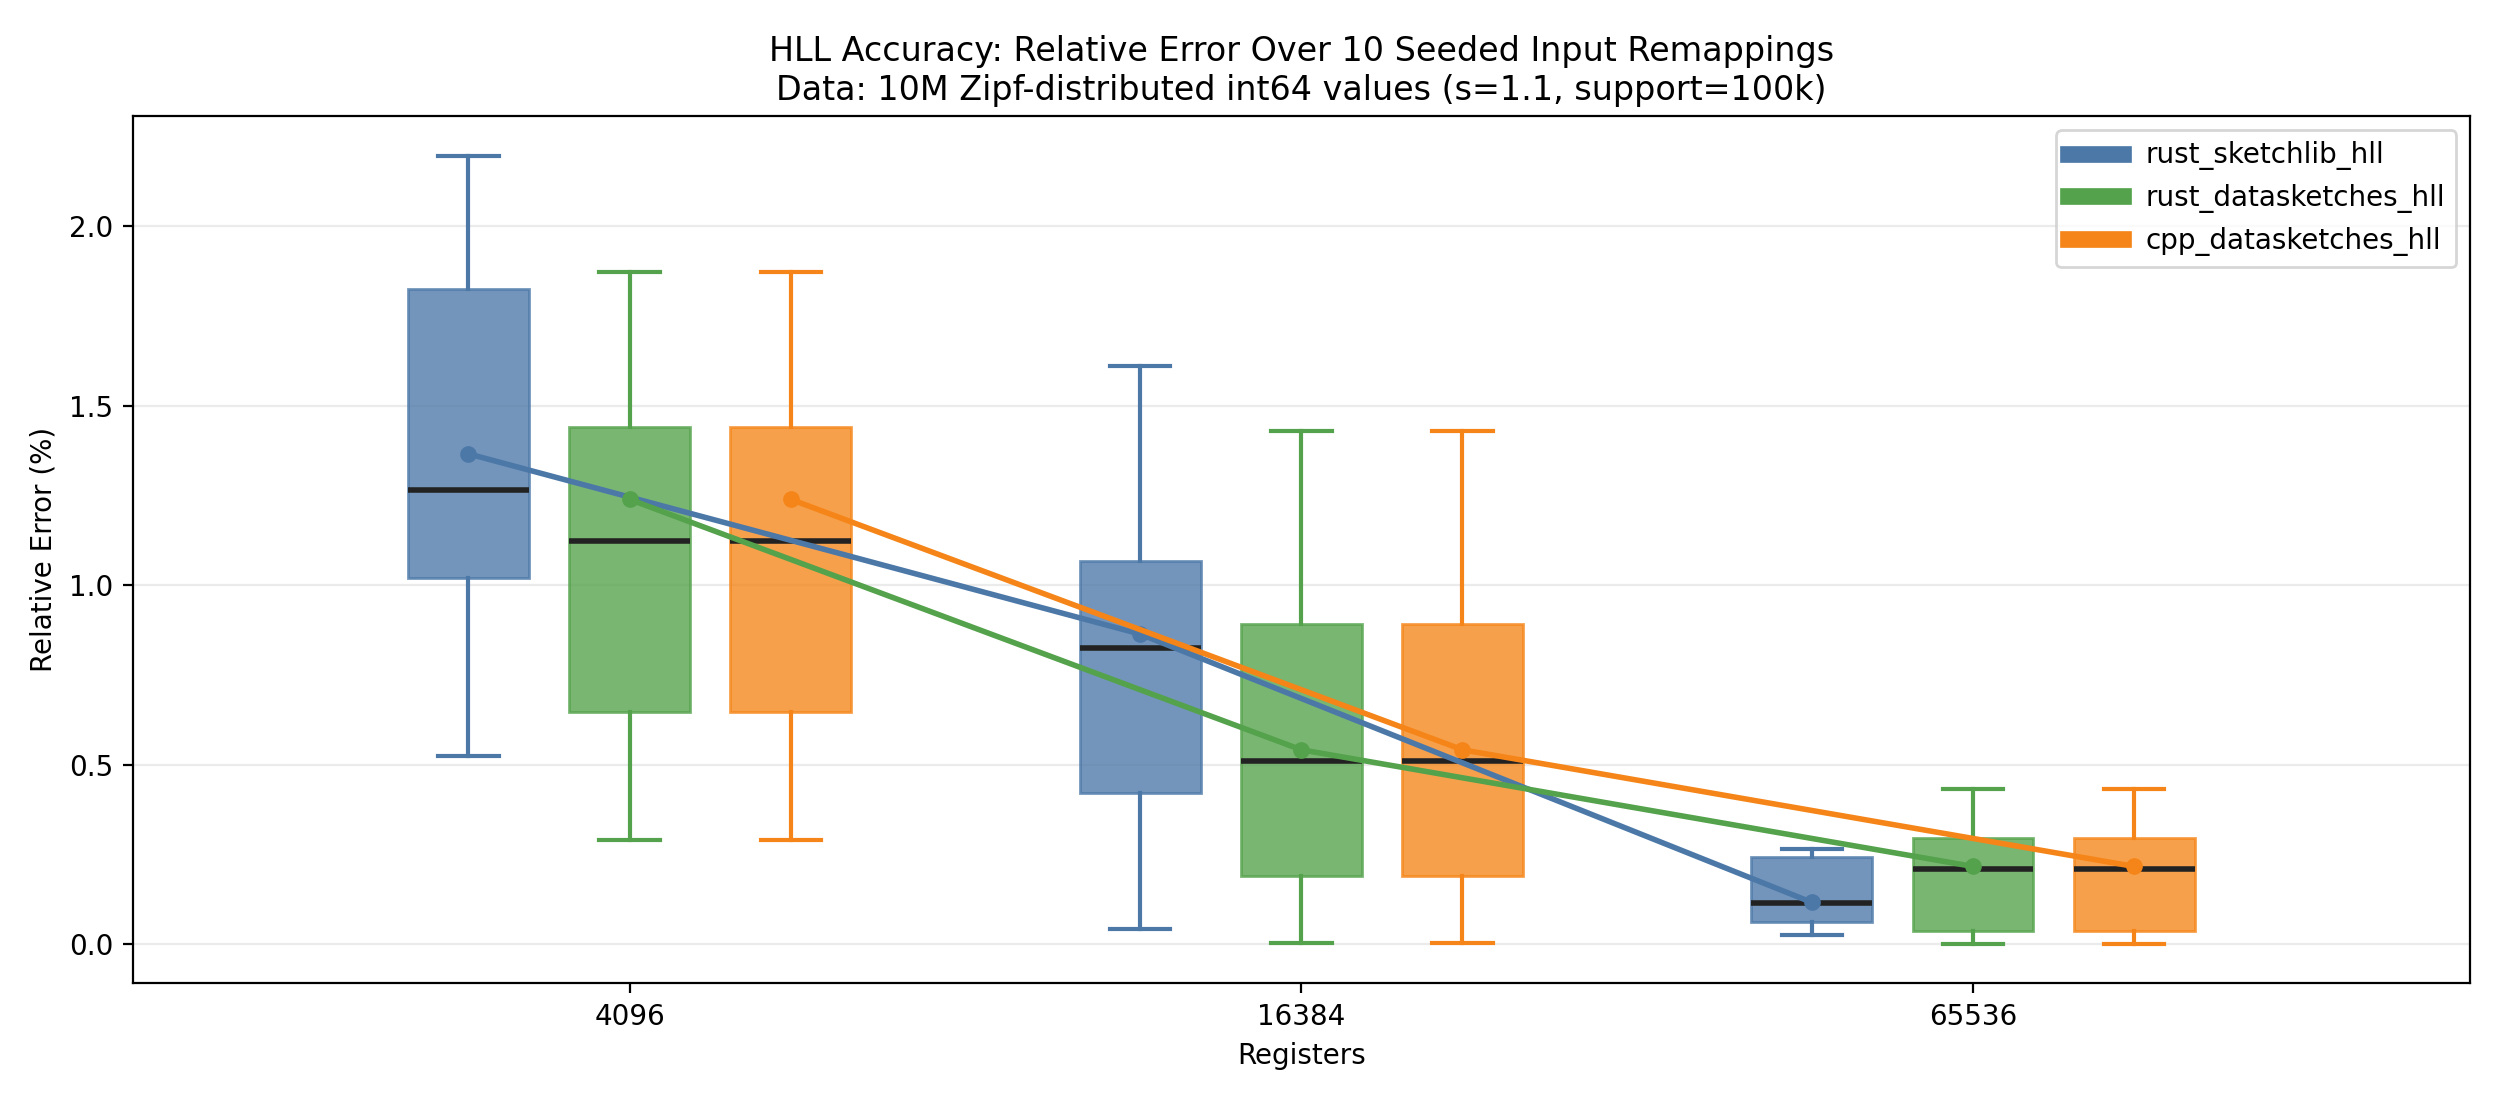
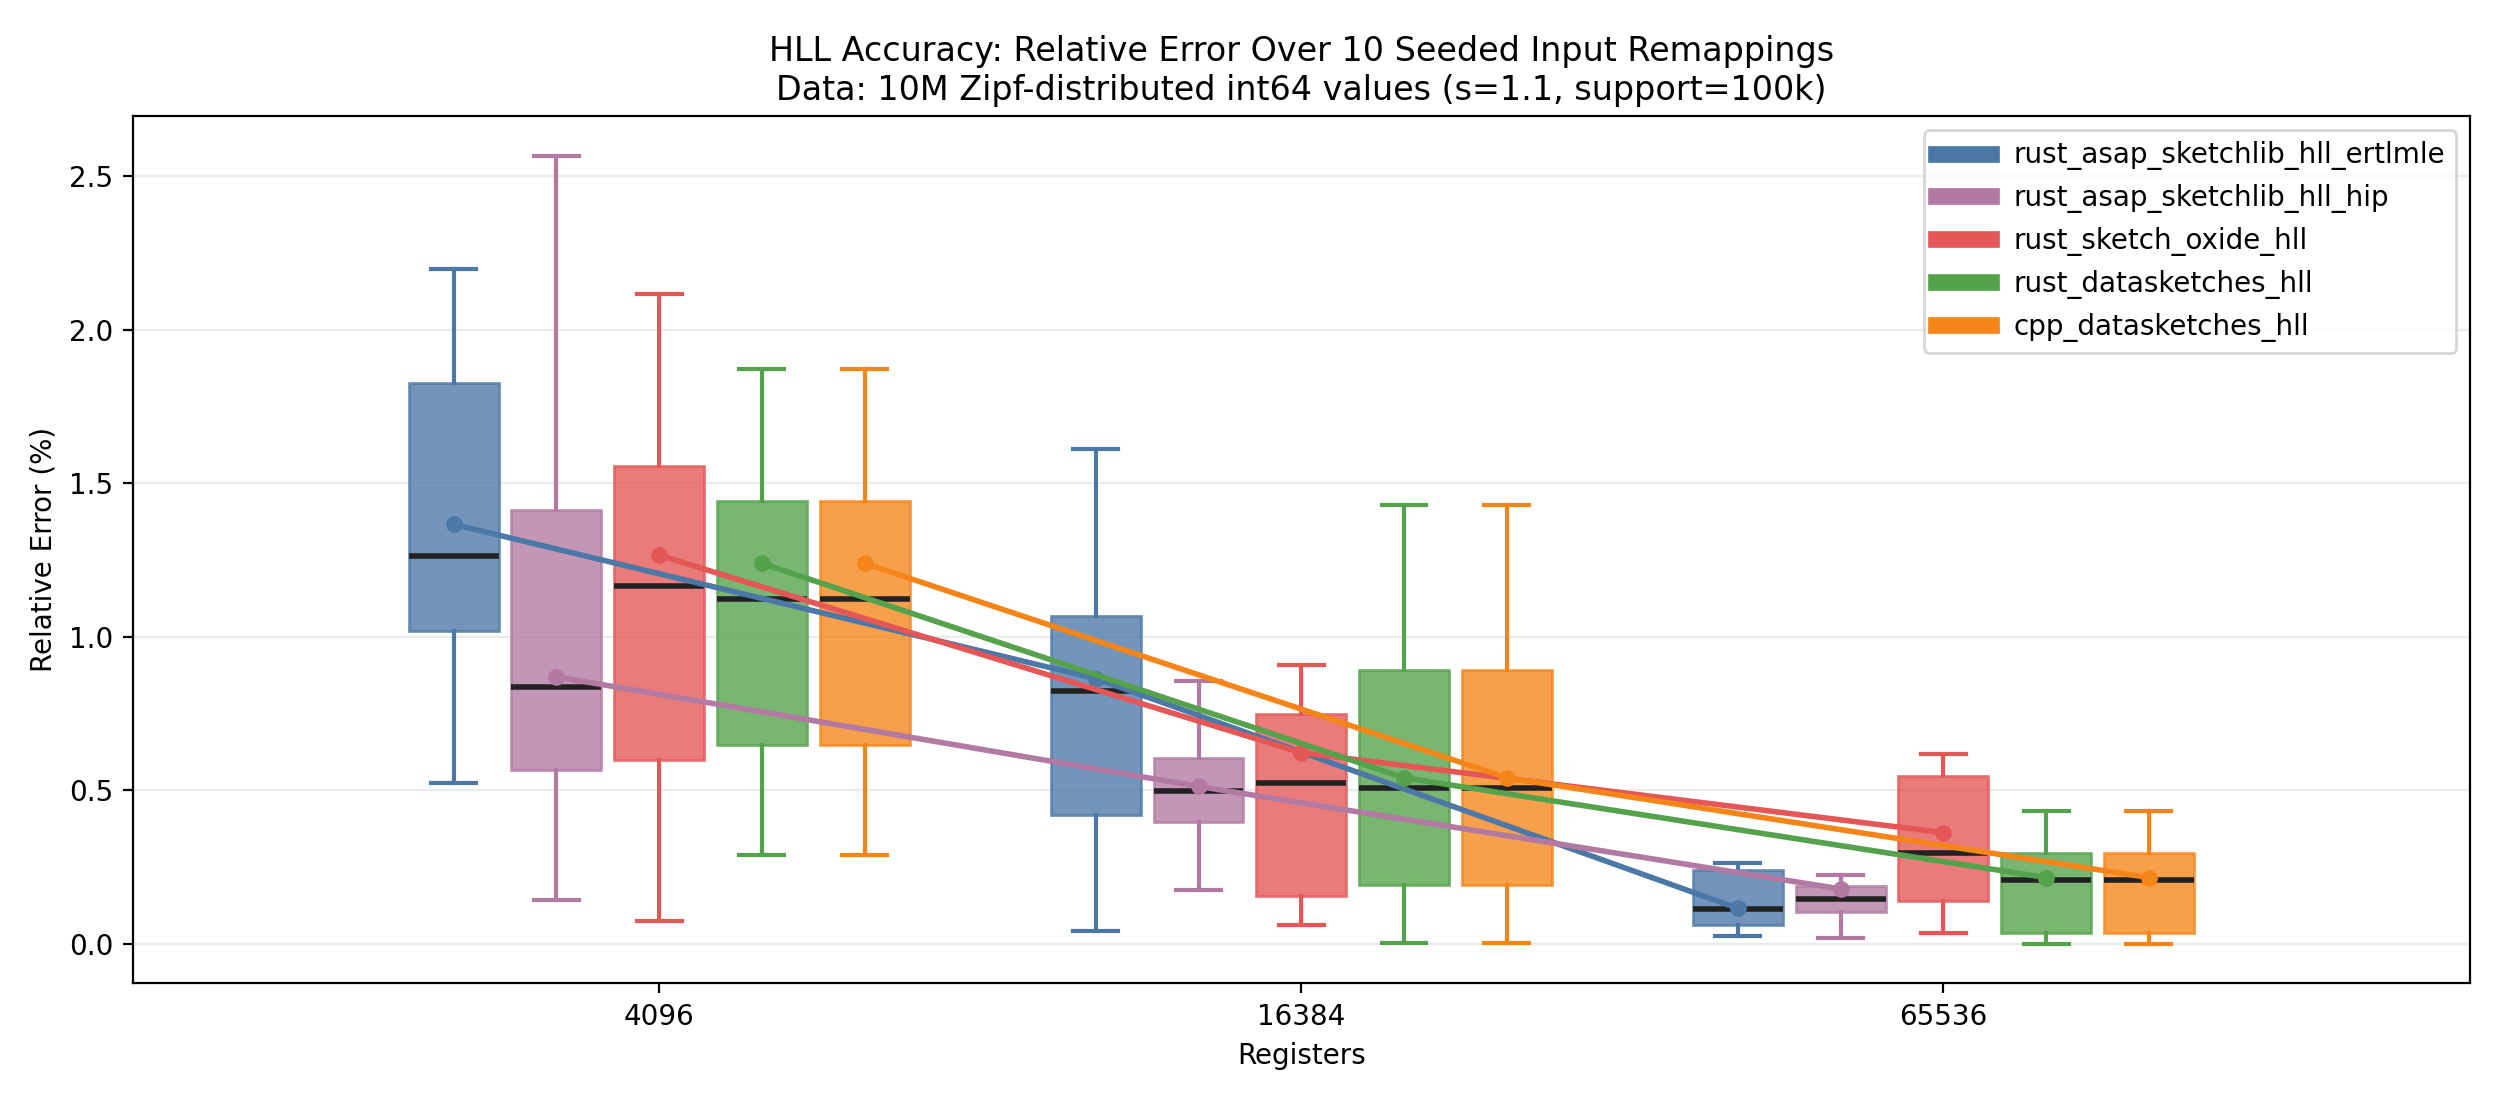
hll throughput insertion and accuracy update

diff --git a/accuracy/hll/rust/src/main.rs b/accuracy/hll/rust/src/main.rs
@@ -6,15 +6,20 @@ use baseline::load_baseline;
 use datasketches::hll::{HllSketch, HllType};
 use output::{write_csv, AccuracyRow};
 use seeds::SEEDS;
+use sketch_oxide::cardinality::HyperLogLog as OxideHyperLogLog;
+use sketch_oxide::Sketch;
 use asap_sketchlib::{
-    ErtlMLE, HyperLogLogP12, HyperLogLogP14, HyperLogLogP16, SketchInput,
+    ErtlMLE, HyperLogLogHIPP12, HyperLogLogHIPP14, HyperLogLogHIPP16,
+    HyperLogLogP12, HyperLogLogP14, HyperLogLogP16, SketchInput,
 };
 use std::env;
 use std::error::Error;
 use std::path::PathBuf;
 
 const IMPLEMENTATION_RUST_DATASKETCHES: &str = "rust_datasketches_hll";
-const IMPLEMENTATION_RUST_SKETCHLIB: &str = "rust_sketchlib_hll";
+const IMPLEMENTATION_RUST_ASAP_ERTLMLE: &str = "rust_asap_sketchlib_hll_ertlmle";
+const IMPLEMENTATION_RUST_ASAP_HIP: &str = "rust_asap_sketchlib_hll_hip";
+const IMPLEMENTATION_RUST_OXIDE: &str = "rust_sketch_oxide_hll";
 const LG_K_LIST: &[u8] = &[12, 14, 16];
 
 #[derive(Debug)]
@@ -31,14 +36,22 @@ fn main() -> Result<(), Box<dyn Error>> {
     let mut rows = Vec::new();
     match args.implementation_filter.as_deref() {
         None => {
-            rows.extend(run_sketchlib(&baseline.values, baseline.distinct_items()));
+            rows.extend(run_asap_ertlmle(&baseline.values, baseline.distinct_items()));
+            rows.extend(run_asap_hip(&baseline.values, baseline.distinct_items()));
+            rows.extend(run_oxide(&baseline.values, baseline.distinct_items()));
             rows.extend(run_datasketches_rust(
                 &baseline.values,
                 baseline.distinct_items(),
             ));
         }
-        Some(IMPLEMENTATION_RUST_SKETCHLIB) => {
-            rows.extend(run_sketchlib(&baseline.values, baseline.distinct_items()));
+        Some(IMPLEMENTATION_RUST_ASAP_ERTLMLE) => {
+            rows.extend(run_asap_ertlmle(&baseline.values, baseline.distinct_items()));
+        }
+        Some(IMPLEMENTATION_RUST_ASAP_HIP) => {
+            rows.extend(run_asap_hip(&baseline.values, baseline.distinct_items()));
+        }
+        Some(IMPLEMENTATION_RUST_OXIDE) => {
+            rows.extend(run_oxide(&baseline.values, baseline.distinct_items()));
         }
         Some(IMPLEMENTATION_RUST_DATASKETCHES) => {
             rows.extend(run_datasketches_rust(
@@ -48,7 +61,9 @@ fn main() -> Result<(), Box<dyn Error>> {
         }
         Some(other) => {
             return Err(format!(
-                "unsupported --impl value: {other}; expected one of {IMPLEMENTATION_RUST_SKETCHLIB}, {IMPLEMENTATION_RUST_DATASKETCHES}"
+                "unsupported --impl value: {other}; expected one of \
+                 {IMPLEMENTATION_RUST_ASAP_ERTLMLE}, {IMPLEMENTATION_RUST_ASAP_HIP}, \
+                 {IMPLEMENTATION_RUST_OXIDE}, {IMPLEMENTATION_RUST_DATASKETCHES}"
             )
             .into());
         }
@@ -56,35 +71,6 @@ fn main() -> Result<(), Box<dyn Error>> {
 
     write_csv(&args.output_summary, &rows, false)?;
     Ok(())
-}
-
-fn run_sketchlib_at_precision<S>(
-    lg_k: u8,
-    registers: usize,
-    values: &[i64],
-    true_distinct: usize,
-) -> Vec<AccuracyRow>
-where
-    S: Default + SketchInsertEstimate,
-{
-    let mut rows = Vec::with_capacity(SEEDS.len());
-    for &seed in &SEEDS {
-        let mut sketch = S::default();
-        for &value in values {
-            sketch.sketch_insert(&SketchInput::U64(seeded_key(value, seed)));
-        }
-        rows.push(build_row(
-            IMPLEMENTATION_RUST_SKETCHLIB,
-            "rust",
-            seed,
-            lg_k,
-            registers,
-            values.len(),
-            true_distinct,
-            sketch.sketch_estimate() as f64,
-        ));
-    }
-    rows
 }
 
 trait SketchInsertEstimate {
@@ -107,20 +93,108 @@ impl SketchInsertEstimate for HyperLogLogP16<ErtlMLE> {
     fn sketch_estimate(&self) -> usize { self.estimate() }
 }
 
-fn run_sketchlib(values: &[i64], true_distinct: usize) -> Vec<AccuracyRow> {
+impl SketchInsertEstimate for HyperLogLogHIPP12 {
+    fn sketch_insert(&mut self, input: &SketchInput) { self.insert(input); }
+    fn sketch_estimate(&self) -> usize { self.estimate() as usize }
+}
+
+impl SketchInsertEstimate for HyperLogLogHIPP14 {
+    fn sketch_insert(&mut self, input: &SketchInput) { self.insert(input); }
+    fn sketch_estimate(&self) -> usize { self.estimate() as usize }
+}
+
+impl SketchInsertEstimate for HyperLogLogHIPP16 {
+    fn sketch_insert(&mut self, input: &SketchInput) { self.insert(input); }
+    fn sketch_estimate(&self) -> usize { self.estimate() as usize }
+}
+
+fn run_asap_at_precision<S>(
+    implementation: &'static str,
+    lg_k: u8,
+    registers: usize,
+    values: &[i64],
+    true_distinct: usize,
+) -> Vec<AccuracyRow>
+where
+    S: Default + SketchInsertEstimate,
+{
+    let mut rows = Vec::with_capacity(SEEDS.len());
+    for &seed in &SEEDS {
+        let mut sketch = S::default();
+        for &value in values {
+            sketch.sketch_insert(&SketchInput::U64(seeded_key(value, seed)));
+        }
+        rows.push(build_row(
+            implementation,
+            "rust",
+            seed,
+            lg_k,
+            registers,
+            values.len(),
+            true_distinct,
+            sketch.sketch_estimate() as f64,
+        ));
+    }
+    rows
+}
+
+fn run_asap_ertlmle(values: &[i64], true_distinct: usize) -> Vec<AccuracyRow> {
     let mut rows = Vec::new();
     for &lg_k in LG_K_LIST {
         match lg_k {
-            12 => rows.extend(run_sketchlib_at_precision::<HyperLogLogP12<ErtlMLE>>(
-                12, 1 << 12, values, true_distinct,
+            12 => rows.extend(run_asap_at_precision::<HyperLogLogP12<ErtlMLE>>(
+                IMPLEMENTATION_RUST_ASAP_ERTLMLE, 12, 1 << 12, values, true_distinct,
             )),
-            14 => rows.extend(run_sketchlib_at_precision::<HyperLogLogP14<ErtlMLE>>(
-                14, 1 << 14, values, true_distinct,
+            14 => rows.extend(run_asap_at_precision::<HyperLogLogP14<ErtlMLE>>(
+                IMPLEMENTATION_RUST_ASAP_ERTLMLE, 14, 1 << 14, values, true_distinct,
             )),
-            16 => rows.extend(run_sketchlib_at_precision::<HyperLogLogP16<ErtlMLE>>(
-                16, 1 << 16, values, true_distinct,
+            16 => rows.extend(run_asap_at_precision::<HyperLogLogP16<ErtlMLE>>(
+                IMPLEMENTATION_RUST_ASAP_ERTLMLE, 16, 1 << 16, values, true_distinct,
             )),
             _ => unreachable!(),
+        }
+    }
+    rows
+}
+
+fn run_asap_hip(values: &[i64], true_distinct: usize) -> Vec<AccuracyRow> {
+    let mut rows = Vec::new();
+    for &lg_k in LG_K_LIST {
+        match lg_k {
+            12 => rows.extend(run_asap_at_precision::<HyperLogLogHIPP12>(
+                IMPLEMENTATION_RUST_ASAP_HIP, 12, 1 << 12, values, true_distinct,
+            )),
+            14 => rows.extend(run_asap_at_precision::<HyperLogLogHIPP14>(
+                IMPLEMENTATION_RUST_ASAP_HIP, 14, 1 << 14, values, true_distinct,
+            )),
+            16 => rows.extend(run_asap_at_precision::<HyperLogLogHIPP16>(
+                IMPLEMENTATION_RUST_ASAP_HIP, 16, 1 << 16, values, true_distinct,
+            )),
+            _ => unreachable!(),
+        }
+    }
+    rows
+}
+
+fn run_oxide(values: &[i64], true_distinct: usize) -> Vec<AccuracyRow> {
+    let mut rows = Vec::new();
+    for &lg_k in LG_K_LIST {
+        let registers = 1usize << lg_k;
+        for &seed in &SEEDS {
+            let mut sketch = OxideHyperLogLog::new(lg_k).expect("valid precision");
+            for &value in values {
+                sketch.update(&seeded_key(value, seed));
+            }
+            rows.push(build_row(
+                IMPLEMENTATION_RUST_OXIDE,
+                "rust",
+                seed,
+                lg_k,
+                registers,
+                values.len(),
+                true_distinct,
+                sketch.estimate(),
+            ));
         }
     }
     rows

diff --git a/throughput/hll/rust/src/main.rs b/throughput/hll/rust/src/main.rs
@@ -1,6 +1,6 @@
 use datasketches::hll::{HllSketch, HllType};
 use sketch_oxide::cardinality::HyperLogLog as OxideHyperLogLog;
-use asap_sketchlib::{ErtlMLE, HyperLogLogP12, SketchInput};
+use asap_sketchlib::{ErtlMLE, HyperLogLogHIPP12, HyperLogLogP12, SketchInput};
 use std::env;
 use std::error::Error;
 use std::fs::{File, OpenOptions};
@@ -12,6 +12,7 @@ const LG_K: u8 = 12;
 const REGISTERS: usize = 1 << (LG_K as usize);
 const RUNS: usize = 10;
 const IMPLEMENTATION_RUST_SKETCHLIB: &str = "rust_sketchlib_hll";
+const IMPLEMENTATION_RUST_SKETCHLIB_HIP: &str = "rust_sketchlib_hll_hip";
 const IMPLEMENTATION_RUST_OXIDE: &str = "rust_oxide_hll";
 const IMPLEMENTATION_RUST_DATASKETCHES: &str = "rust_datasketches_hll";
 const CSV_HEADER: &str =
@@ -60,17 +61,19 @@ fn main() -> Result<(), Box<dyn Error>> {
     match args.implementation_filter.as_deref() {
         None => {
             rows.extend(run_sketchlib(&data));
+            rows.extend(run_sketchlib_hip(&data));
             rows.extend(run_oxide(&data));
             rows.extend(run_datasketches(&data));
         }
         Some(IMPLEMENTATION_RUST_SKETCHLIB) => rows.extend(run_sketchlib(&data)),
+        Some(IMPLEMENTATION_RUST_SKETCHLIB_HIP) => rows.extend(run_sketchlib_hip(&data)),
         Some(IMPLEMENTATION_RUST_OXIDE) => rows.extend(run_oxide(&data)),
         Some(IMPLEMENTATION_RUST_DATASKETCHES) => rows.extend(run_datasketches(&data)),
         Some(other) => {
             return Err(format!(
                 "unsupported --impl value: {other}; expected \
-                 {IMPLEMENTATION_RUST_SKETCHLIB}, {IMPLEMENTATION_RUST_OXIDE}, \
-                 or {IMPLEMENTATION_RUST_DATASKETCHES}"
+                 {IMPLEMENTATION_RUST_SKETCHLIB}, {IMPLEMENTATION_RUST_SKETCHLIB_HIP}, \
+                 {IMPLEMENTATION_RUST_OXIDE}, or {IMPLEMENTATION_RUST_DATASKETCHES}"
             )
             .into())
         }
@@ -92,6 +95,30 @@ fn run_sketchlib(data: &[i64]) -> Vec<ThroughputRow> {
         let elapsed = start.elapsed().as_nanos();
         rows.push(ThroughputRow {
             implementation: IMPLEMENTATION_RUST_SKETCHLIB,
+            language: "rust",
+            run,
+            lg_k: LG_K,
+            registers: REGISTERS,
+            total_items: data.len(),
+            total_nanoseconds: elapsed,
+            throughput_items_per_sec: data.len() as f64 * 1_000_000_000.0 / elapsed as f64,
+        });
+    }
+    rows
+}
+
+fn run_sketchlib_hip(data: &[i64]) -> Vec<ThroughputRow> {
+    let mut rows = Vec::with_capacity(RUNS);
+    for run in 1..=RUNS {
+        let mut sketch = HyperLogLogHIPP12::default();
+        let start = Instant::now();
+        for &value in data {
+            sketch.insert(&SketchInput::I64(value));
+        }
+        std::hint::black_box(&sketch);
+        let elapsed = start.elapsed().as_nanos();
+        rows.push(ThroughputRow {
+            implementation: IMPLEMENTATION_RUST_SKETCHLIB_HIP,
             language: "rust",
             run,
             lg_k: LG_K,

diff --git a/throughput/scripts/plot_hll_throughput.py b/throughput/scripts/plot_hll_throughput.py
@@ -18,13 +18,15 @@ import matplotlib.pyplot as plt
 
 COLORS = {
     "rust_sketchlib_hll": "#4C78A8",
+    "rust_sketchlib_hll_hip": "#72B7B2",
     "rust_oxide_hll": "#54A24B",
     "rust_datasketches_hll": "#E45756",
     "cpp_datasketches_hll": "#F58518",
 }
 
 LABELS = {
-    "rust_sketchlib_hll": "Rust sketchlib",
+    "rust_sketchlib_hll": "Rust sketchlib\n(ErtlMLE)",
+    "rust_sketchlib_hll_hip": "Rust sketchlib\n(HIP)",
     "rust_oxide_hll": "Rust sketch_oxide",
     "rust_datasketches_hll": "Rust DataSketches",
     "cpp_datasketches_hll": "C++ DataSketches",
@@ -32,6 +34,7 @@ LABELS = {
 
 IMPLEMENTATIONS = [
     "rust_sketchlib_hll",
+    "rust_sketchlib_hll_hip",
     "rust_oxide_hll",
     "rust_datasketches_hll",
     "cpp_datasketches_hll",
@@ -115,7 +118,7 @@ def render_plot(rows: list[dict[str, str]], output: Path) -> None:
     )
     ax.set_ylabel("Throughput (items/sec)")
     ax.set_xticks(positions)
-    ax.set_xticklabels([LABELS[name] for name in IMPLEMENTATIONS], rotation=8, ha="right")
+    ax.set_xticklabels([LABELS[name] for name in IMPLEMENTATIONS])
     ax.grid(True, axis="y", alpha=0.25, zorder=1)
 
     max_height = max(max(values) for values in grouped.values())

diff --git a/accuracy/scripts/plot_hll_accuracy.py b/accuracy/scripts/plot_hll_accuracy.py
@@ -17,19 +17,25 @@ import matplotlib.pyplot as plt
 from matplotlib.lines import Line2D
 
 COLORS = {
-    "rust_sketchlib_hll": "#4C78A8",
+    "rust_asap_sketchlib_hll_ertlmle": "#4C78A8",
+    "rust_asap_sketchlib_hll_hip": "#B279A2",
+    "rust_sketch_oxide_hll": "#E45756",
     "rust_datasketches_hll": "#54A24B",
     "cpp_datasketches_hll": "#F58518",
 }
 IMPLEMENTATIONS = [
-    "rust_sketchlib_hll",
+    "rust_asap_sketchlib_hll_ertlmle",
+    "rust_asap_sketchlib_hll_hip",
+    "rust_sketch_oxide_hll",
     "rust_datasketches_hll",
     "cpp_datasketches_hll",
 ]
 OFFSETS = {
-    "rust_sketchlib_hll": -0.24,
-    "rust_datasketches_hll": 0.0,
-    "cpp_datasketches_hll": 0.24,
+    "rust_asap_sketchlib_hll_ertlmle": -0.32,
+    "rust_asap_sketchlib_hll_hip": -0.16,
+    "rust_sketch_oxide_hll": 0.0,
+    "rust_datasketches_hll": 0.16,
+    "cpp_datasketches_hll": 0.32,
 }
 
 
@@ -72,7 +78,7 @@ def main() -> None:
 
     args.output.parent.mkdir(parents=True, exist_ok=True)
     fig, ax = plt.subplots(figsize=(12.5, 5.5))
-    width = 0.18
+    width = 0.14
 
     for impl_name in IMPLEMENTATIONS:
         positions = [
